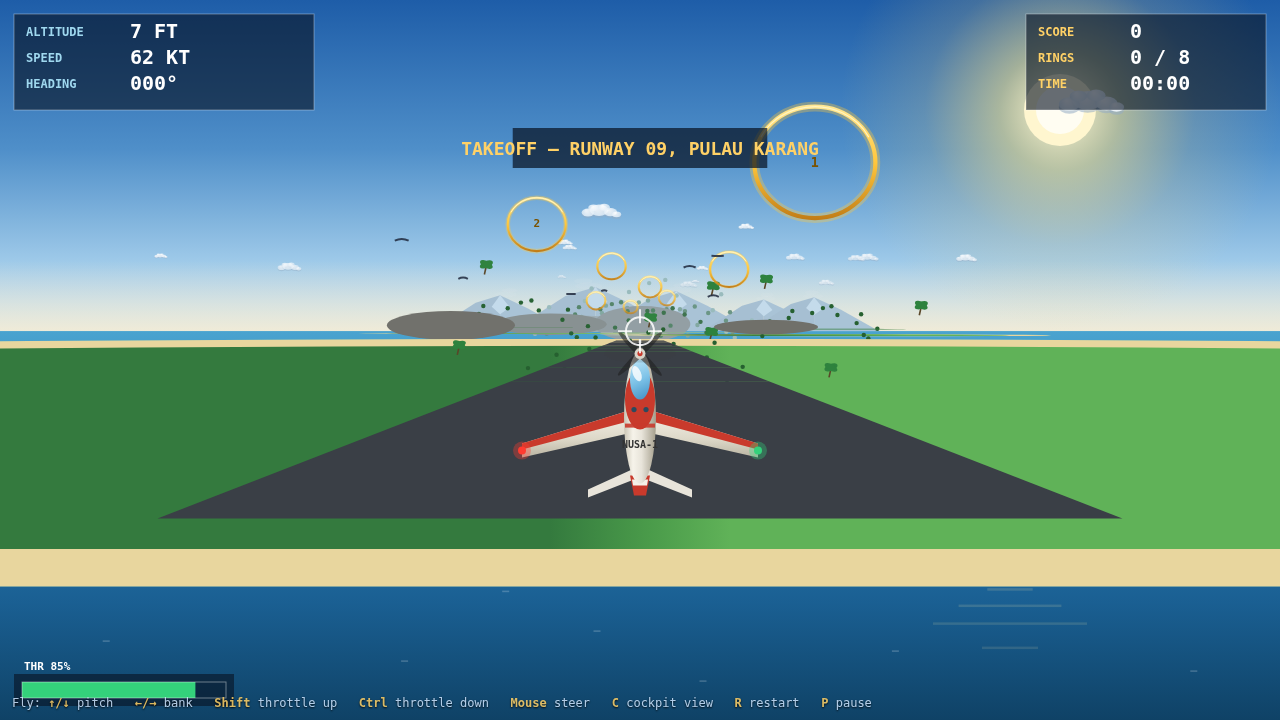
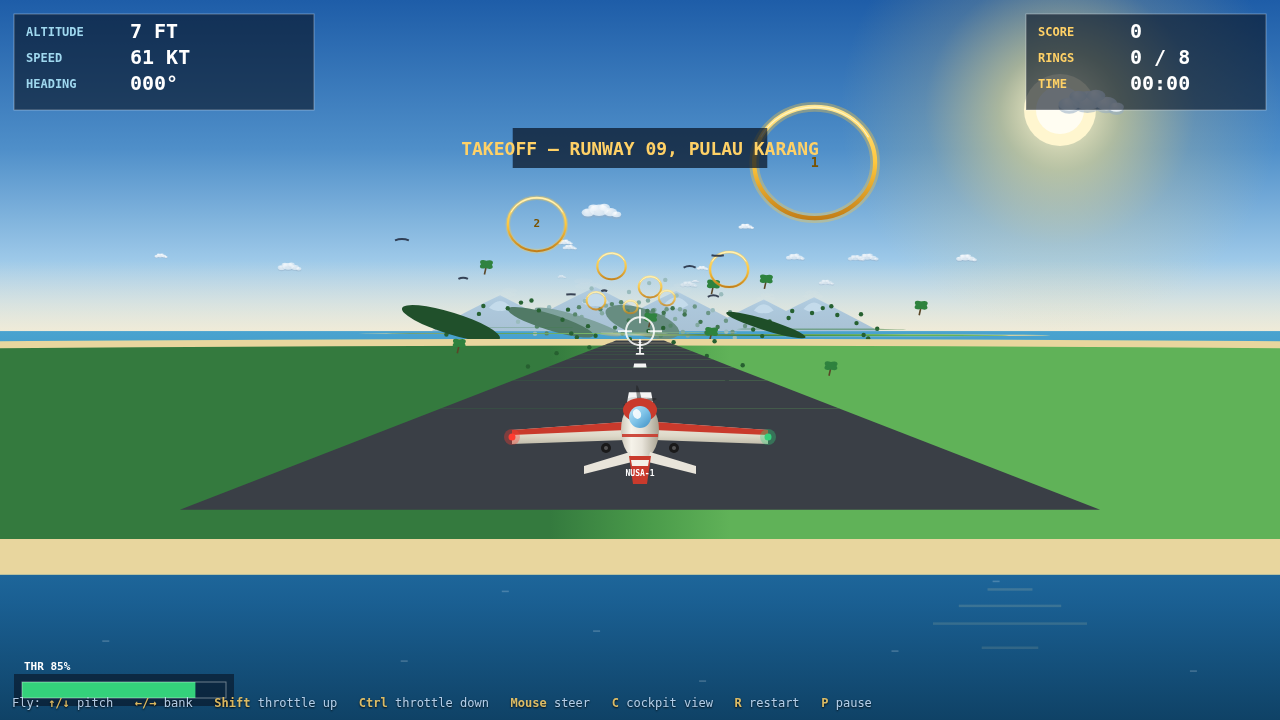
best-flight-game: fix plane orientation — foreshortened rear chase view (short fuselage, wide wings, big tail fin, small far propeller, landing gear on ground) so it reads as flying forward, not standing vertical

Changed region(s): [[0.0, 0.3972, 1.0, 0.7639], [0.0, 0.7944, 1.0, 0.825], [0.6562, 0.1528, 0.6875, 0.1833]]

diff --git a/game/index.html b/game/index.html
@@ -574,9 +574,13 @@ function drawBirds(){
   }
 }
 function drawPlane(){
-  // Chase view: the Nusa-1 as a shaded 3D model, centre of screen,
-  // plus its soft shadow on the sea / ground far below (sells the height).
-  const cx = W/2, cy = H*0.58;
+  // Chase view: the Nusa-1 seen from BEHIND and slightly ABOVE, the way
+  // a real chase camera sits. The fuselage is FORESHORTENED — you look
+  // along it toward the horizon, not down on it from above — so the plane
+  // reads as flying FORWARD, not standing on its tail pointing at the sky.
+  // The wings are the wide horizontal feature; the tail (closest to the
+  // camera) is big; the nose and propeller are small, far away, up-screen.
+  const cx = W/2, cy = H*0.60;
   // --- ground shadow: project the plane's (x,z) onto the surface below.
   const gh = surfaceHeight(S.x, S.z);
   const shadowP = project(S.x, gh + 0.5, S.z);
@@ -593,80 +597,90 @@ function drawPlane(){
   ctx.rotate(-bank*0.9);
   const sh = S.camShake>0 ? (Math.random()-0.5)*S.camShake*10 : 0;
   ctx.translate(sh, sh*0.5);
-  // --- wings (drawn first, behind the fuselage): airfoil with thickness.
-  // Left wing: sunlit top edge, shaded underside.
-  const wingGrad = ctx.createLinearGradient(0,-6,0,40);
-  wingGrad.addColorStop(0,'#f4f1e8');
+  // --- propeller: a SMALL translucent disc far ahead (top of the sprite),
+  // because the nose is the farthest part from the chase camera.
+  const pa = S.prop;
+  ctx.fillStyle='rgba(60,60,60,0.14)';
+  ctx.beginPath(); ctx.ellipse(0, -30, 20, 5, 0, 0, 6.283); ctx.fill();
+  ctx.fillStyle='rgba(30,30,30,0.5)';
+  ctx.beginPath(); ctx.ellipse(0, -30, 17, 2.2, pa, 0, 6.283); ctx.fill();
+  ctx.beginPath(); ctx.ellipse(0, -30, 17, 2.2, pa+1.57, 0, 6.283); ctx.fill();
+  ctx.fillStyle='#d8d4c8'; ctx.beginPath(); ctx.arc(0,-30,3.4,0,6.283); ctx.fill();
+  ctx.fillStyle='#c93a2c'; ctx.beginPath(); ctx.arc(0,-30,1.8,0,6.283); ctx.fill();
+  // --- wings: the wide horizontal feature, seen from above. Slight
+  // dihedral (tips a touch higher, toward the nose) so they read as 3D.
+  const wingGrad = ctx.createLinearGradient(0,-14,0,16);
+  wingGrad.addColorStop(0,'#f6f3ea');
   wingGrad.addColorStop(0.6,'#ddd8c8');
-  wingGrad.addColorStop(1,'#b9b4a2');
+  wingGrad.addColorStop(1,'#b3ae9c');
   ctx.fillStyle = wingGrad;
-  ctx.beginPath(); ctx.moveTo(-14,-6); ctx.lineTo(-118,26); ctx.lineTo(-118,40); ctx.lineTo(-12,16); ctx.closePath(); ctx.fill();
-  ctx.beginPath(); ctx.moveTo(14,-6); ctx.lineTo(118,26); ctx.lineTo(118,40); ctx.lineTo(12,16); ctx.closePath(); ctx.fill();
+  ctx.beginPath(); ctx.moveTo(-16,-10); ctx.lineTo(-128,-2); ctx.lineTo(-128,12); ctx.lineTo(-14,8); ctx.closePath(); ctx.fill();
+  ctx.beginPath(); ctx.moveTo(16,-10); ctx.lineTo(128,-2); ctx.lineTo(128,12); ctx.lineTo(14,8); ctx.closePath(); ctx.fill();
   // Red wing roots (livery).
   ctx.fillStyle='#c93a2c';
-  ctx.beginPath(); ctx.moveTo(-14,-6); ctx.lineTo(-118,26); ctx.lineTo(-118,32); ctx.lineTo(-12,4); ctx.closePath(); ctx.fill();
-  ctx.beginPath(); ctx.moveTo(14,-6); ctx.lineTo(118,26); ctx.lineTo(118,32); ctx.lineTo(12,4); ctx.closePath(); ctx.fill();
+  ctx.beginPath(); ctx.moveTo(-16,-10); ctx.lineTo(-128,-2); ctx.lineTo(-128,3); ctx.lineTo(-14,-2); ctx.closePath(); ctx.fill();
+  ctx.beginPath(); ctx.moveTo(16,-10); ctx.lineTo(128,-2); ctx.lineTo(128,3); ctx.lineTo(14,-2); ctx.closePath(); ctx.fill();
   // Wingtip navigation lights (red left, green right) with a soft glow.
-  ctx.fillStyle='rgba(255,59,48,0.35)'; ctx.beginPath(); ctx.arc(-118,33,9,0,6.283); ctx.fill();
-  ctx.fillStyle='#ff3b30'; ctx.beginPath(); ctx.arc(-118,33,4,0,6.283); ctx.fill();
-  ctx.fillStyle='rgba(52,209,123,0.35)'; ctx.beginPath(); ctx.arc(118,33,9,0,6.283); ctx.fill();
-  ctx.fillStyle='#34d17b'; ctx.beginPath(); ctx.arc(118,33,4,0,6.283); ctx.fill();
-  // --- tail: horizontal stabilizer + vertical fin.
-  ctx.fillStyle='#e8e4da';
-  ctx.beginPath(); ctx.moveTo(-8,52); ctx.lineTo(-52,72); ctx.lineTo(-52,80); ctx.lineTo(-6,62); ctx.closePath(); ctx.fill();
-  ctx.beginPath(); ctx.moveTo(8,52); ctx.lineTo(52,72); ctx.lineTo(52,80); ctx.lineTo(6,62); ctx.closePath(); ctx.fill();
-  // Vertical fin (red, with a white stripe) — the 3D "up" of the tail.
-  ctx.fillStyle='#c93a2c';
-  ctx.beginPath(); ctx.moveTo(-10,58); ctx.lineTo(10,58); ctx.lineTo(6,78); ctx.lineTo(-6,78); ctx.closePath(); ctx.fill();
-  ctx.fillStyle='#f4f1e8';
-  ctx.beginPath(); ctx.moveTo(-8,62); ctx.lineTo(8,62); ctx.lineTo(7,68); ctx.lineTo(-7,68); ctx.closePath(); ctx.fill();
-  // --- fuselage: a shaded 3D tube — bright on the sun side, dark below.
-  const fus = ctx.createLinearGradient(-16,0,16,0);
+  ctx.fillStyle='rgba(255,59,48,0.35)'; ctx.beginPath(); ctx.arc(-128,5,8,0,6.283); ctx.fill();
+  ctx.fillStyle='#ff3b30'; ctx.beginPath(); ctx.arc(-128,5,3.5,0,6.283); ctx.fill();
+  ctx.fillStyle='rgba(52,209,123,0.35)'; ctx.beginPath(); ctx.arc(128,5,8,0,6.283); ctx.fill();
+  ctx.fillStyle='#34d17b'; ctx.beginPath(); ctx.arc(128,5,3.5,0,6.283); ctx.fill();
+  // --- fuselage: SHORT and stout (foreshortened). You see its top and
+  // its tail end, not a long tube — that is what makes it fly forward.
+  const fus = ctx.createLinearGradient(-20,0,20,0);
   fus.addColorStop(0,'#c9c4b4');
   fus.addColorStop(0.28,'#f6f3ea');
   fus.addColorStop(0.55,'#e8e4da');
   fus.addColorStop(1,'#a49e8c');
   ctx.fillStyle = fus;
-  ctx.beginPath(); ctx.ellipse(0, 0, 16, 66, 0, 0, 6.283); ctx.fill();
-  // Red nose band + cheatline along the fuselage.
+  ctx.beginPath(); ctx.ellipse(0, -2, 19, 30, 0, 0, 6.283); ctx.fill();
+  // Red nose band at the far (top) end of the fuselage.
   ctx.fillStyle='#c93a2c';
-  ctx.beginPath(); ctx.ellipse(0, -18, 15, 30, 0, 0, 6.283); ctx.fill();
+  ctx.beginPath(); ctx.ellipse(0, -22, 17, 12, 0, 0, 6.283); ctx.fill();
+  // Cheatline along the fuselage.
   ctx.fillStyle='rgba(201,58,44,0.9)';
-  ctx.fillRect(-15, 6, 30, 4);
-  // Canopy: glossy blue glass with a white highlight.
-  const can = ctx.createLinearGradient(-10,-58,10,-18);
+  ctx.fillRect(-18, 2, 36, 3);
+  // Canopy: glossy blue glass on TOP of the short fuselage, with highlight.
+  const can = ctx.createLinearGradient(-11,-26,11,-4);
   can.addColorStop(0,'#bfe6f7');
   can.addColorStop(0.5,'#7ec3e8');
   can.addColorStop(1,'#3f8fc4');
   ctx.fillStyle = can;
-  ctx.beginPath(); ctx.ellipse(0, -38, 10, 20, 0, 0, 6.283); ctx.fill();
-  ctx.fillStyle='rgba(255,255,255,0.8)';
-  ctx.beginPath(); ctx.ellipse(-3, -44, 4, 8, -0.4, 0, 6.283); ctx.fill();
-  // Cabin windows (two small portholes).
-  ctx.fillStyle='#2c4a5e';
-  ctx.beginPath(); ctx.arc(-6, -8, 2.6, 0, 6.283); ctx.fill();
-  ctx.beginPath(); ctx.arc(6, -8, 2.6, 0, 6.283); ctx.fill();
-  // --- propeller: translucent spinning disc + blades + spinner.
-  const pa = S.prop;
-  ctx.fillStyle='rgba(60,60,60,0.16)';
-  ctx.beginPath(); ctx.ellipse(0, -64, 36, 9, 0, 0, 6.283); ctx.fill();
-  ctx.fillStyle='rgba(30,30,30,0.55)';
-  ctx.beginPath(); ctx.ellipse(0, -64, 31, 3.4, pa, 0, 6.283); ctx.fill();
-  ctx.beginPath(); ctx.ellipse(0, -64, 31, 3.4, pa+1.57, 0, 6.283); ctx.fill();
-  ctx.fillStyle='#d8d4c8'; ctx.beginPath(); ctx.arc(0,-64,5.5,0,6.283); ctx.fill();
-  ctx.fillStyle='#c93a2c'; ctx.beginPath(); ctx.arc(0,-64,2.6,0,6.283); ctx.fill();
+  ctx.beginPath(); ctx.ellipse(0, -15, 11, 11, 0, 0, 6.283); ctx.fill();
+  ctx.fillStyle='rgba(255,255,255,0.85)';
+  ctx.beginPath(); ctx.ellipse(-3, -18, 4, 5, -0.4, 0, 6.283); ctx.fill();
+  // --- tail: the CLOSEST part to the camera, so it is big and clear.
+  // Horizontal stabilizer.
+  ctx.fillStyle='#e8e4da';
+  ctx.beginPath(); ctx.moveTo(-10,20); ctx.lineTo(-56,34); ctx.lineTo(-56,42); ctx.lineTo(-8,30); ctx.closePath(); ctx.fill();
+  ctx.beginPath(); ctx.moveTo(10,20); ctx.lineTo(56,34); ctx.lineTo(56,42); ctx.lineTo(8,30); ctx.closePath(); ctx.fill();
+  // Vertical fin (red, white stripe) — the tall "up" of the tail.
+  ctx.fillStyle='#c93a2c';
+  ctx.beginPath(); ctx.moveTo(-11,24); ctx.lineTo(11,24); ctx.lineTo(7,52); ctx.lineTo(-7,52); ctx.closePath(); ctx.fill();
+  ctx.fillStyle='#f4f1e8';
+  ctx.beginPath(); ctx.moveTo(-9,28); ctx.lineTo(9,28); ctx.lineTo(8,34); ctx.lineTo(-8,34); ctx.closePath(); ctx.fill();
+  // Registration on the fin.
+  ctx.fillStyle='#fff'; ctx.font='bold 8px ui-monospace, monospace';
+  ctx.textAlign='center'; ctx.fillText('NUSA-1', 0, 44); ctx.textAlign='left';
+  // --- landing gear: two wheels under the wings while on the ground,
+  // so the takeoff shot shows the plane SITTING on the runway.
+  if (S.mode==='takeoff' && S.y <= 4){
+    ctx.fillStyle='#1a1a1a';
+    ctx.beginPath(); ctx.arc(-34, 16, 5, 0, 6.283); ctx.fill();
+    ctx.beginPath(); ctx.arc(34, 16, 5, 0, 6.283); ctx.fill();
+    ctx.fillStyle='#555';
+    ctx.beginPath(); ctx.arc(-34, 16, 2, 0, 6.283); ctx.fill();
+    ctx.beginPath(); ctx.arc(34, 16, 2, 0, 6.283); ctx.fill();
+  }
   // Speed streaks when the throttle is high.
   if (S.throttle > 0.65 && S.speed > 55){
     ctx.strokeStyle='rgba(255,255,255,0.35)'; ctx.lineWidth=1.5;
     for (let i=0;i<4;i++){
-      const yy = -40 + i*30 + (S.time*90 % 24);
-      ctx.beginPath(); ctx.moveTo(-150, yy); ctx.lineTo(-118, yy); ctx.stroke();
-      ctx.beginPath(); ctx.moveTo(118, yy); ctx.lineTo(150, yy); ctx.stroke();
+      const yy = -26 + i*22 + (S.time*90 % 18);
+      ctx.beginPath(); ctx.moveTo(-160, yy); ctx.lineTo(-132, yy); ctx.stroke();
+      ctx.beginPath(); ctx.moveTo(132, yy); ctx.lineTo(160, yy); ctx.stroke();
     }
   }
-  // Registration.
-  ctx.fillStyle='#333'; ctx.font='bold 10px ui-monospace, monospace';
-  ctx.textAlign='center'; ctx.fillText('NUSA-1', 0, 30); ctx.textAlign='left';
   ctx.restore();
 }
 function drawCockpit(){
